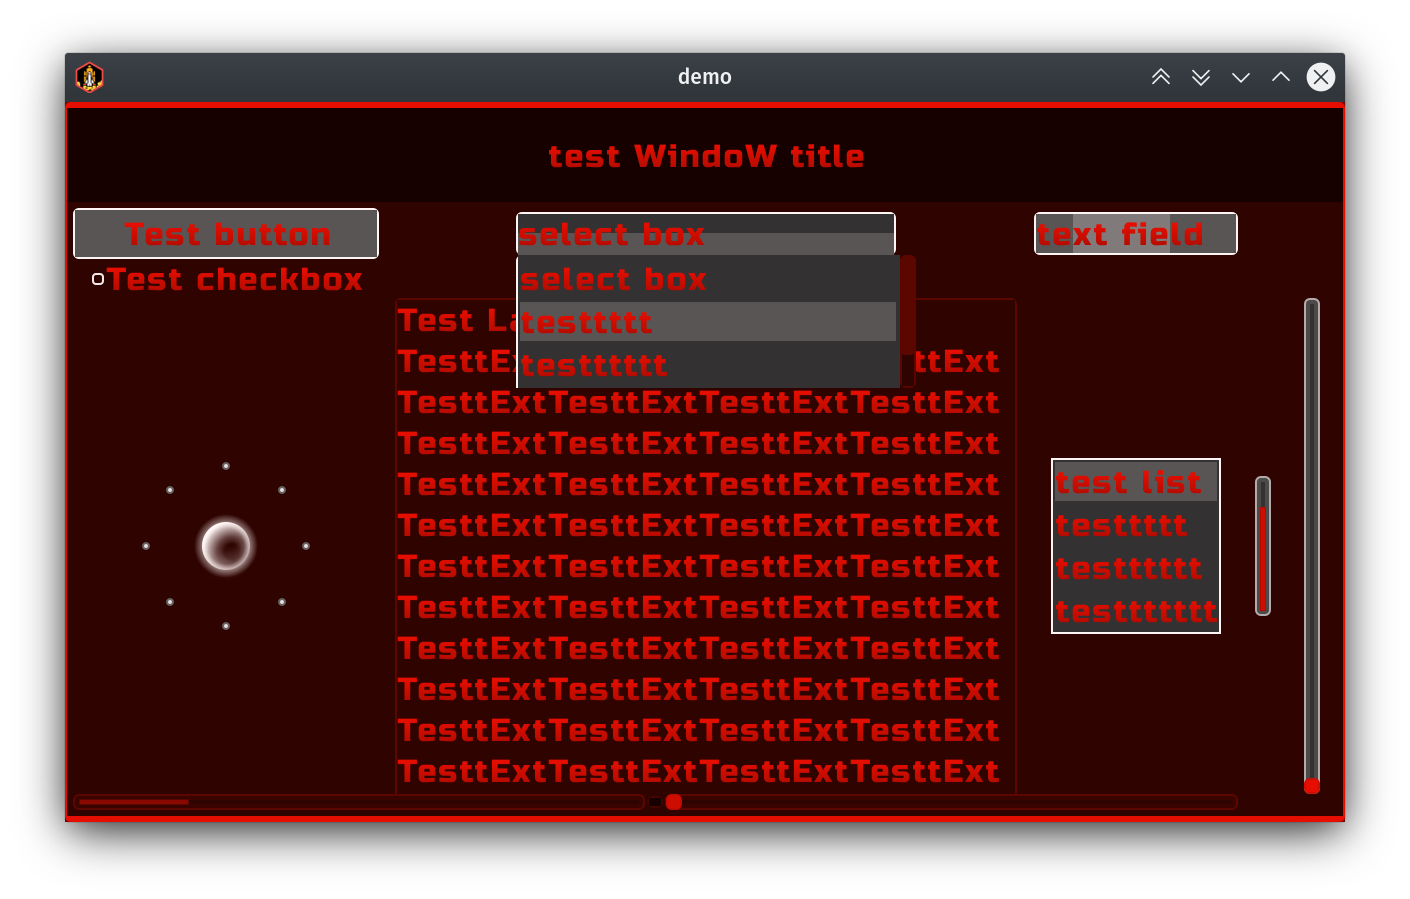
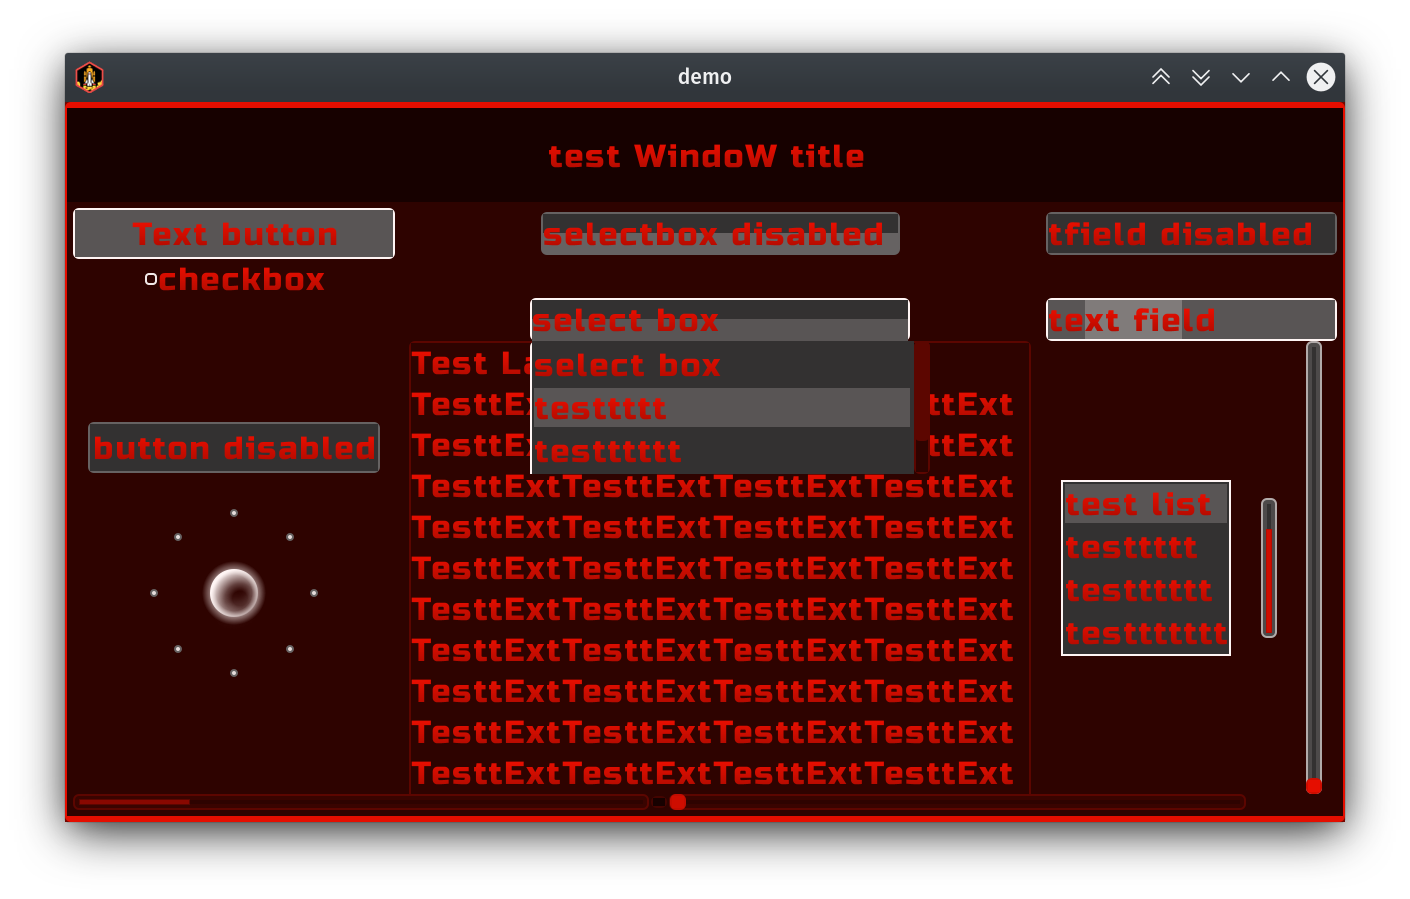
dark restyled + acid fixed little bit

Changed region(s): [[0.0624, 0.218, 0.9674, 0.9032], [0.0624, 0.218, 0.2809, 0.3426], [0.1248, 0.5606, 0.1872, 0.7164]]

diff --git a/demo13x/core/src/main/kotlin/colorstepskin/StyleCreatorDark.kt b/demo13x/core/src/main/kotlin/colorstepskin/StyleCreatorDark.kt
@@ -36,15 +36,15 @@ fun createDarkStyle(css:ColorStepSkin){
             tbuttonDark[hue].up = newDrawable(getDrawable("button-up"), hueL)
             tbuttonDark[hue].down = newDrawable(getDrawable("button-down"), hueL)
             tbuttonDark[hue].checked = newDrawable(getDrawable("button-checked"), hueL)
-            tbuttonDark[hue].disabled = newDrawable(getDrawable("button-disabled"), hueL)
+            tbuttonDark[hue].disabled = newDrawable(getDrawable("button-disabled"), hueD)
             tbuttonDark[hue].font = defaultFont
             tbuttonDark[hue].fontColor = hueL
+            tbuttonDark[hue].disabledFontColor = hueD
             
             checkDark[hue].checkboxOn = newDrawable(getDrawable("check-on"), hueL)
             checkDark[hue].checkboxOff = newDrawable(getDrawable("check-off"), hueL)
             checkDark[hue].checkboxOffDisabled = newDrawable(getDrawable("check-off"), hueD)
             checkDark[hue].checkboxOnDisabled = newDrawable(getDrawable("check-on"), hueD)
-//            checkDark[hue].disabled = newDrawable(getDrawable("check-disabled"), hueD)
             checkDark[hue].font = defaultFont
             checkDark[hue].fontColor = hueL
             checkDark[hue].disabledFontColor = hueD
@@ -52,10 +52,11 @@ fun createDarkStyle(css:ColorStepSkin){
             tfieldDark[hue].cursor = newDrawable(getDrawable("textfield-cursor"), hueL)
             tfieldDark[hue].selection = newDrawable(getDrawable("textfield-selection"), hueL)
             tfieldDark[hue].background = newDrawable(getDrawable("textfield-background"), hueL)
-            tfieldDark[hue].disabledBackground = newDrawable(getDrawable("textfield-disabled"), hueL)
+            tfieldDark[hue].disabledBackground = newDrawable(getDrawable("textfield-disabled"), hueD)
             tfieldDark[hue].focusedBackground = newDrawable(getDrawable("textfield-focused"), hueL)
             tfieldDark[hue].font = defaultFont
             tfieldDark[hue].fontColor = hueL
+            tfieldDark[hue].disabledFontColor = hueD
             
             tareaDark[hue] = tfieldDark[hue]
             
@@ -78,9 +79,10 @@ fun createDarkStyle(css:ColorStepSkin){
             selectDark[hue].listStyle = sls
             selectDark[hue].scrollStyle = scrollDark[hue]
             selectDark[hue].background = newDrawable(getDrawable("select-background"), hueL)
-            selectDark[hue].backgroundDisabled = newDrawable(getDrawable("select-disabled"), hueL)
+            selectDark[hue].backgroundDisabled = newDrawable(getDrawable("select-disabled"), hueD)
             selectDark[hue].font = defaultFont
             selectDark[hue].fontColor = hueL
+            selectDark[hue].disabledFontColor = hueD
             
             progressDark[hue].background = newDrawable(getDrawable("progress-background"), hueL)
             progressDark[hue].disabledBackground = newDrawable(getDrawable("progress-disabledbackground"), hueL)
@@ -156,6 +158,7 @@ fun createDarkStyle(css:ColorStepSkin){
             tbuttonTextDark[hue].disabled = newDrawable(getDrawable("button-disabled"), opoL)
             tbuttonTextDark[hue].font = defaultFont
             tbuttonTextDark[hue].fontColor = hueL
+            tbuttonTextDark[hue].disabledFontColor = opoL
             
             checkTextDark[hue].checkboxOn = newDrawable(getDrawable("check-on"), hueL)
             checkTextDark[hue].checkboxOff = newDrawable(getDrawable("check-off"), hueL)
@@ -173,6 +176,7 @@ fun createDarkStyle(css:ColorStepSkin){
             tfieldTextDark[hue].focusedBackground = newDrawable(getDrawable("textfield-focused"), opoL)
             tfieldTextDark[hue].font = defaultFont
             tfieldTextDark[hue].fontColor = hueL
+            tfieldTextDark[hue].disabledFontColor = opoL
             
             tareaTextDark[hue] = tfieldTextDark[hue]
             
@@ -198,6 +202,7 @@ fun createDarkStyle(css:ColorStepSkin){
             selectTextDark[hue].backgroundDisabled = newDrawable(getDrawable("select-disabled"), opoL)
             selectTextDark[hue].font = defaultFont
             selectTextDark[hue].fontColor = hueL
+            selectTextDark[hue].disabledFontColor = opoL
             
             progressTextDark[hue].background = newDrawable(getDrawable("progress-background"), opoL)
             progressTextDark[hue].disabledBackground = newDrawable(getDrawable("progress-disabledbackground"), opoL)
@@ -242,7 +247,7 @@ fun createDarkStyle(css:ColorStepSkin){
         for (hue in 0..100){
             val opoD = cbox.dark.colorPair(hue, true)[1]//dark oposite
             val hueL = cbox.dark.colorPair(hue)[0]//light hue based
-            val hueD = cbox.dark.colorPair(hue, true)[0]//dark hue based
+//            val hueD = cbox.dark.colorPair(hue, true)[0]//dark hue based
             val opoL = cbox.dark.colorPair(hue)[1]//light oposite
             
             scrollFonDark[hue].vScrollKnob = newDrawable(getDrawable("inverted-vscrollknob"), opoD)
@@ -272,14 +277,14 @@ fun createDarkStyle(css:ColorStepSkin){
             tbuttonFonDark[hue].disabled = newDrawable(getDrawable("inverted-button-disabled"), hueL)
             tbuttonFonDark[hue].font = defaultFontFon
             tbuttonFonDark[hue].fontColor = opoD
+            tbuttonFonDark[hue].disabledFontColor = hueL
             
             checkFonDark[hue].checkboxOn = newDrawable(getDrawable("inverted-check-on"), opoD)
             checkFonDark[hue].checkboxOff = newDrawable(getDrawable("inverted-check-off"), opoD)
             checkFonDark[hue].checkboxOffDisabled = newDrawable(getDrawable("inverted-check-off"), hueL)
             checkFonDark[hue].checkboxOnDisabled = newDrawable(getDrawable("inverted-check-on"), hueL)
-//            checkFonDark[hue].disabled = newDrawable(getDrawable("inverted-check-disabled"), hueL)
             checkFonDark[hue].font = defaultFontFon
-            checkFonDark[hue].fontColor = opoL
+            checkFonDark[hue].fontColor = opoD
             checkFonDark[hue].disabledFontColor = hueL
             
             tfieldFonDark[hue].cursor = newDrawable(getDrawable("inverted-textfield-cursor"), opoD)
@@ -289,6 +294,7 @@ fun createDarkStyle(css:ColorStepSkin){
             tfieldFonDark[hue].focusedBackground = newDrawable(getDrawable("inverted-textfield-focused"), hueL)
             tfieldFonDark[hue].font = defaultFontFon
             tfieldFonDark[hue].fontColor = opoD
+            tfieldFonDark[hue].disabledFontColor = hueL
             /*because style class is same and inside Skin.add() next just override previous. And there is some shit inside,
             * because if no bottom syntax for textarea style , in time of creation textfield app crushed, looks like textfield use
             * textarea style but this style class named as TextFieldStyle etc , not sure. muddy place , but work finally*/
@@ -307,6 +313,7 @@ fun createDarkStyle(css:ColorStepSkin){
             selectFonDark[hue].backgroundDisabled = newDrawable(getDrawable("inverted-select-disabled"), hueL)
             selectFonDark[hue].font = defaultFontFon
             selectFonDark[hue].fontColor = opoD
+            selectFonDark[hue].disabledFontColor = hueL
             
             progressFonDark[hue].background = newDrawable(getDrawable("inverted-progress-background"), hueL)
             progressFonDark[hue].disabledBackground = newDrawable(getDrawable("inverted-progress-disabledbackground"), hueL)

diff --git a/demo13x/core/src/main/kotlin/colorstepskin/StyleCreatorAcid.kt b/demo13x/core/src/main/kotlin/colorstepskin/StyleCreatorAcid.kt
@@ -172,6 +172,7 @@ fun createAcidStyle(css:ColorStepSkin){
             tfieldTextAcid[hue].focusedBackground = newDrawable(getDrawable("textfield-focused"), opoD)
             tfieldTextAcid[hue].font = defaultFont
             tfieldTextAcid[hue].fontColor = hueD
+            tfieldTextAcid[hue].disabledFontColor = opoD
             
             tareaTextAcid[hue] = tfieldTextAcid[hue]
             
@@ -197,6 +198,7 @@ fun createAcidStyle(css:ColorStepSkin){
             selectTextAcid[hue].backgroundDisabled = newDrawable(getDrawable("select-disabled"), opoD)
             selectTextAcid[hue].font = defaultFont
             selectTextAcid[hue].fontColor = hueD
+            selectTextAcid[hue].disabledFontColor = opoD
             
             progressTextAcid[hue].knobBefore = newDrawable(getDrawable("progress-knobbefore"), hueD)
             progressTextAcid[hue].background = newDrawable(getDrawable("progress-background"), opoD)

diff --git a/demo13x/core/src/main/kotlin/colorstepskin/ColorStepSkin.kt b/demo13x/core/src/main/kotlin/colorstepskin/ColorStepSkin.kt
@@ -433,7 +433,7 @@ class ColorStepSkin : Skin() {
         createSnowStyle(this)
         
         /*default*/
-        defaultFonAcid() /*short name binded to text sun scheme. Call other (declaired bottom) from this place , to make they default*/
+        defaultFonDark() /*short name binded to text sun scheme. Call other (declaired bottom) from this place , to make they default*/
         for (hue in 0..100){
             
             add("$hue", scroll[hue])

diff --git a/demo13x/core/src/main/kotlin/io/guthub/healingdrawing/demo/Demo.kt b/demo13x/core/src/main/kotlin/io/guthub/healingdrawing/demo/Demo.kt
@@ -63,7 +63,7 @@ class Demo : ApplicationAdapter() {
      *
      * Other styles is manually prebalanced hue offset scheme based.
      * */
-    private val styleName = "51"
+    private val styleName = "1"
     
     override fun create() {
         stage = Stage(FitViewport(1280f, 720f))
